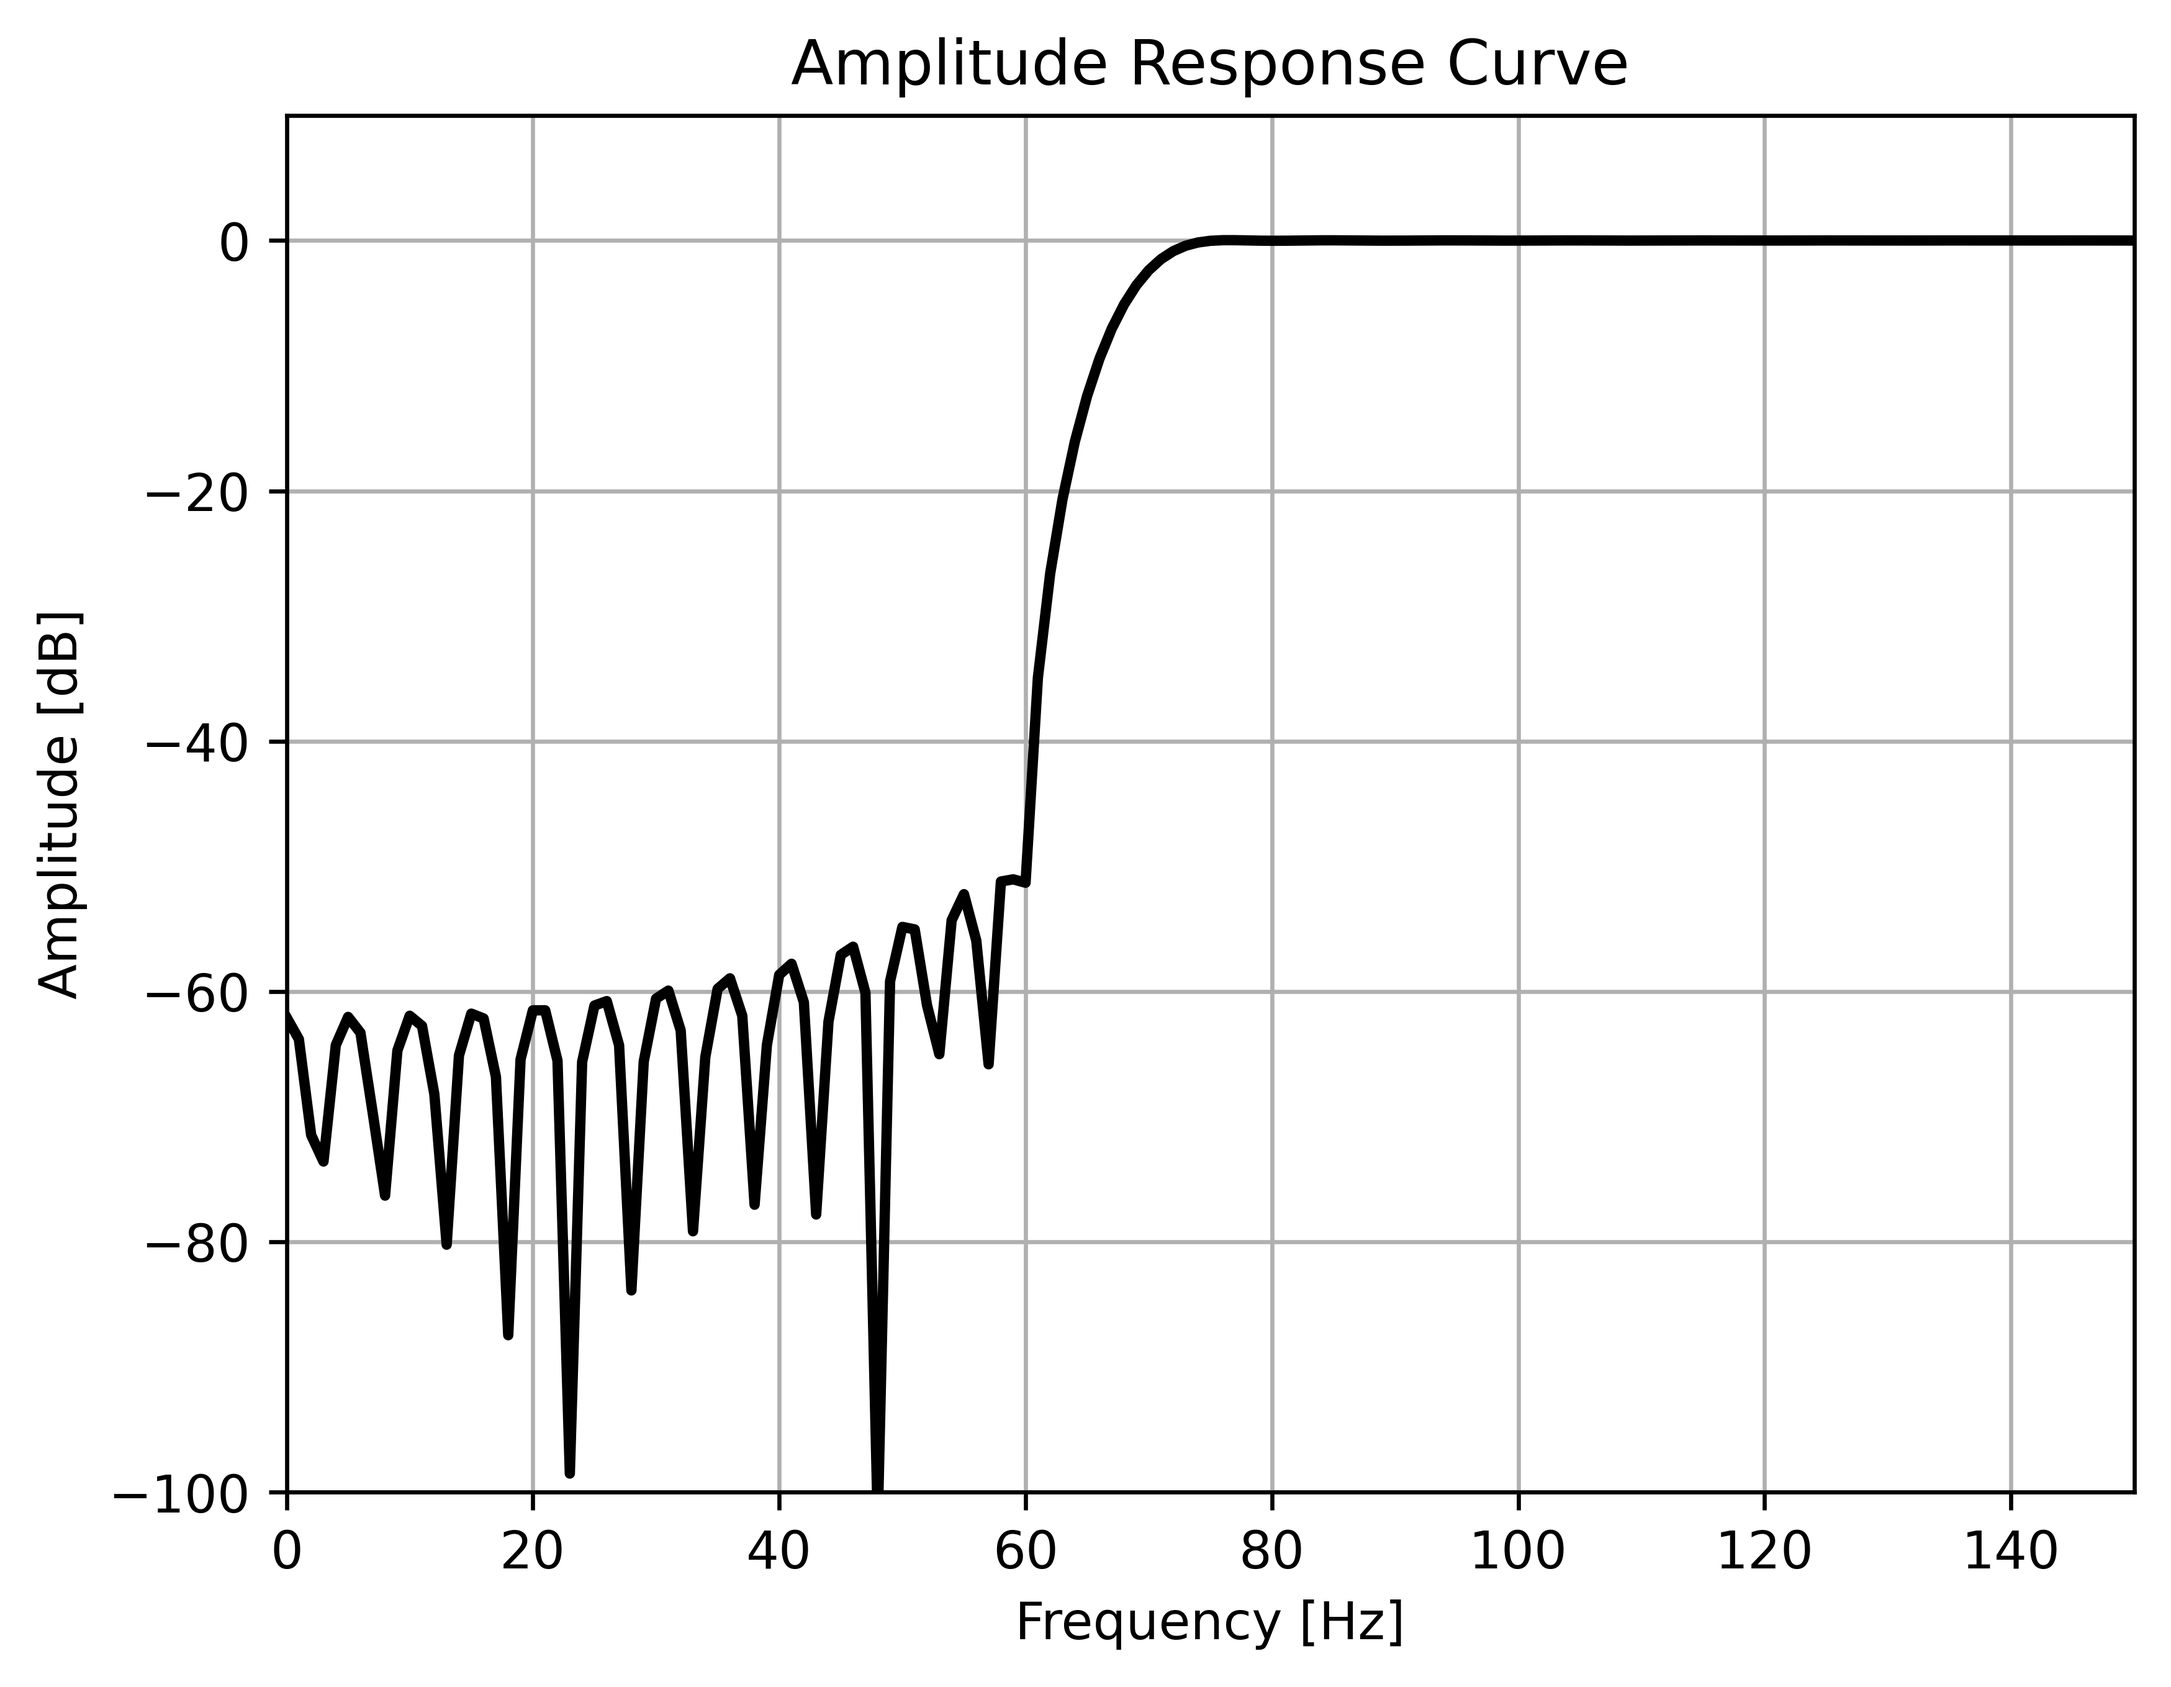
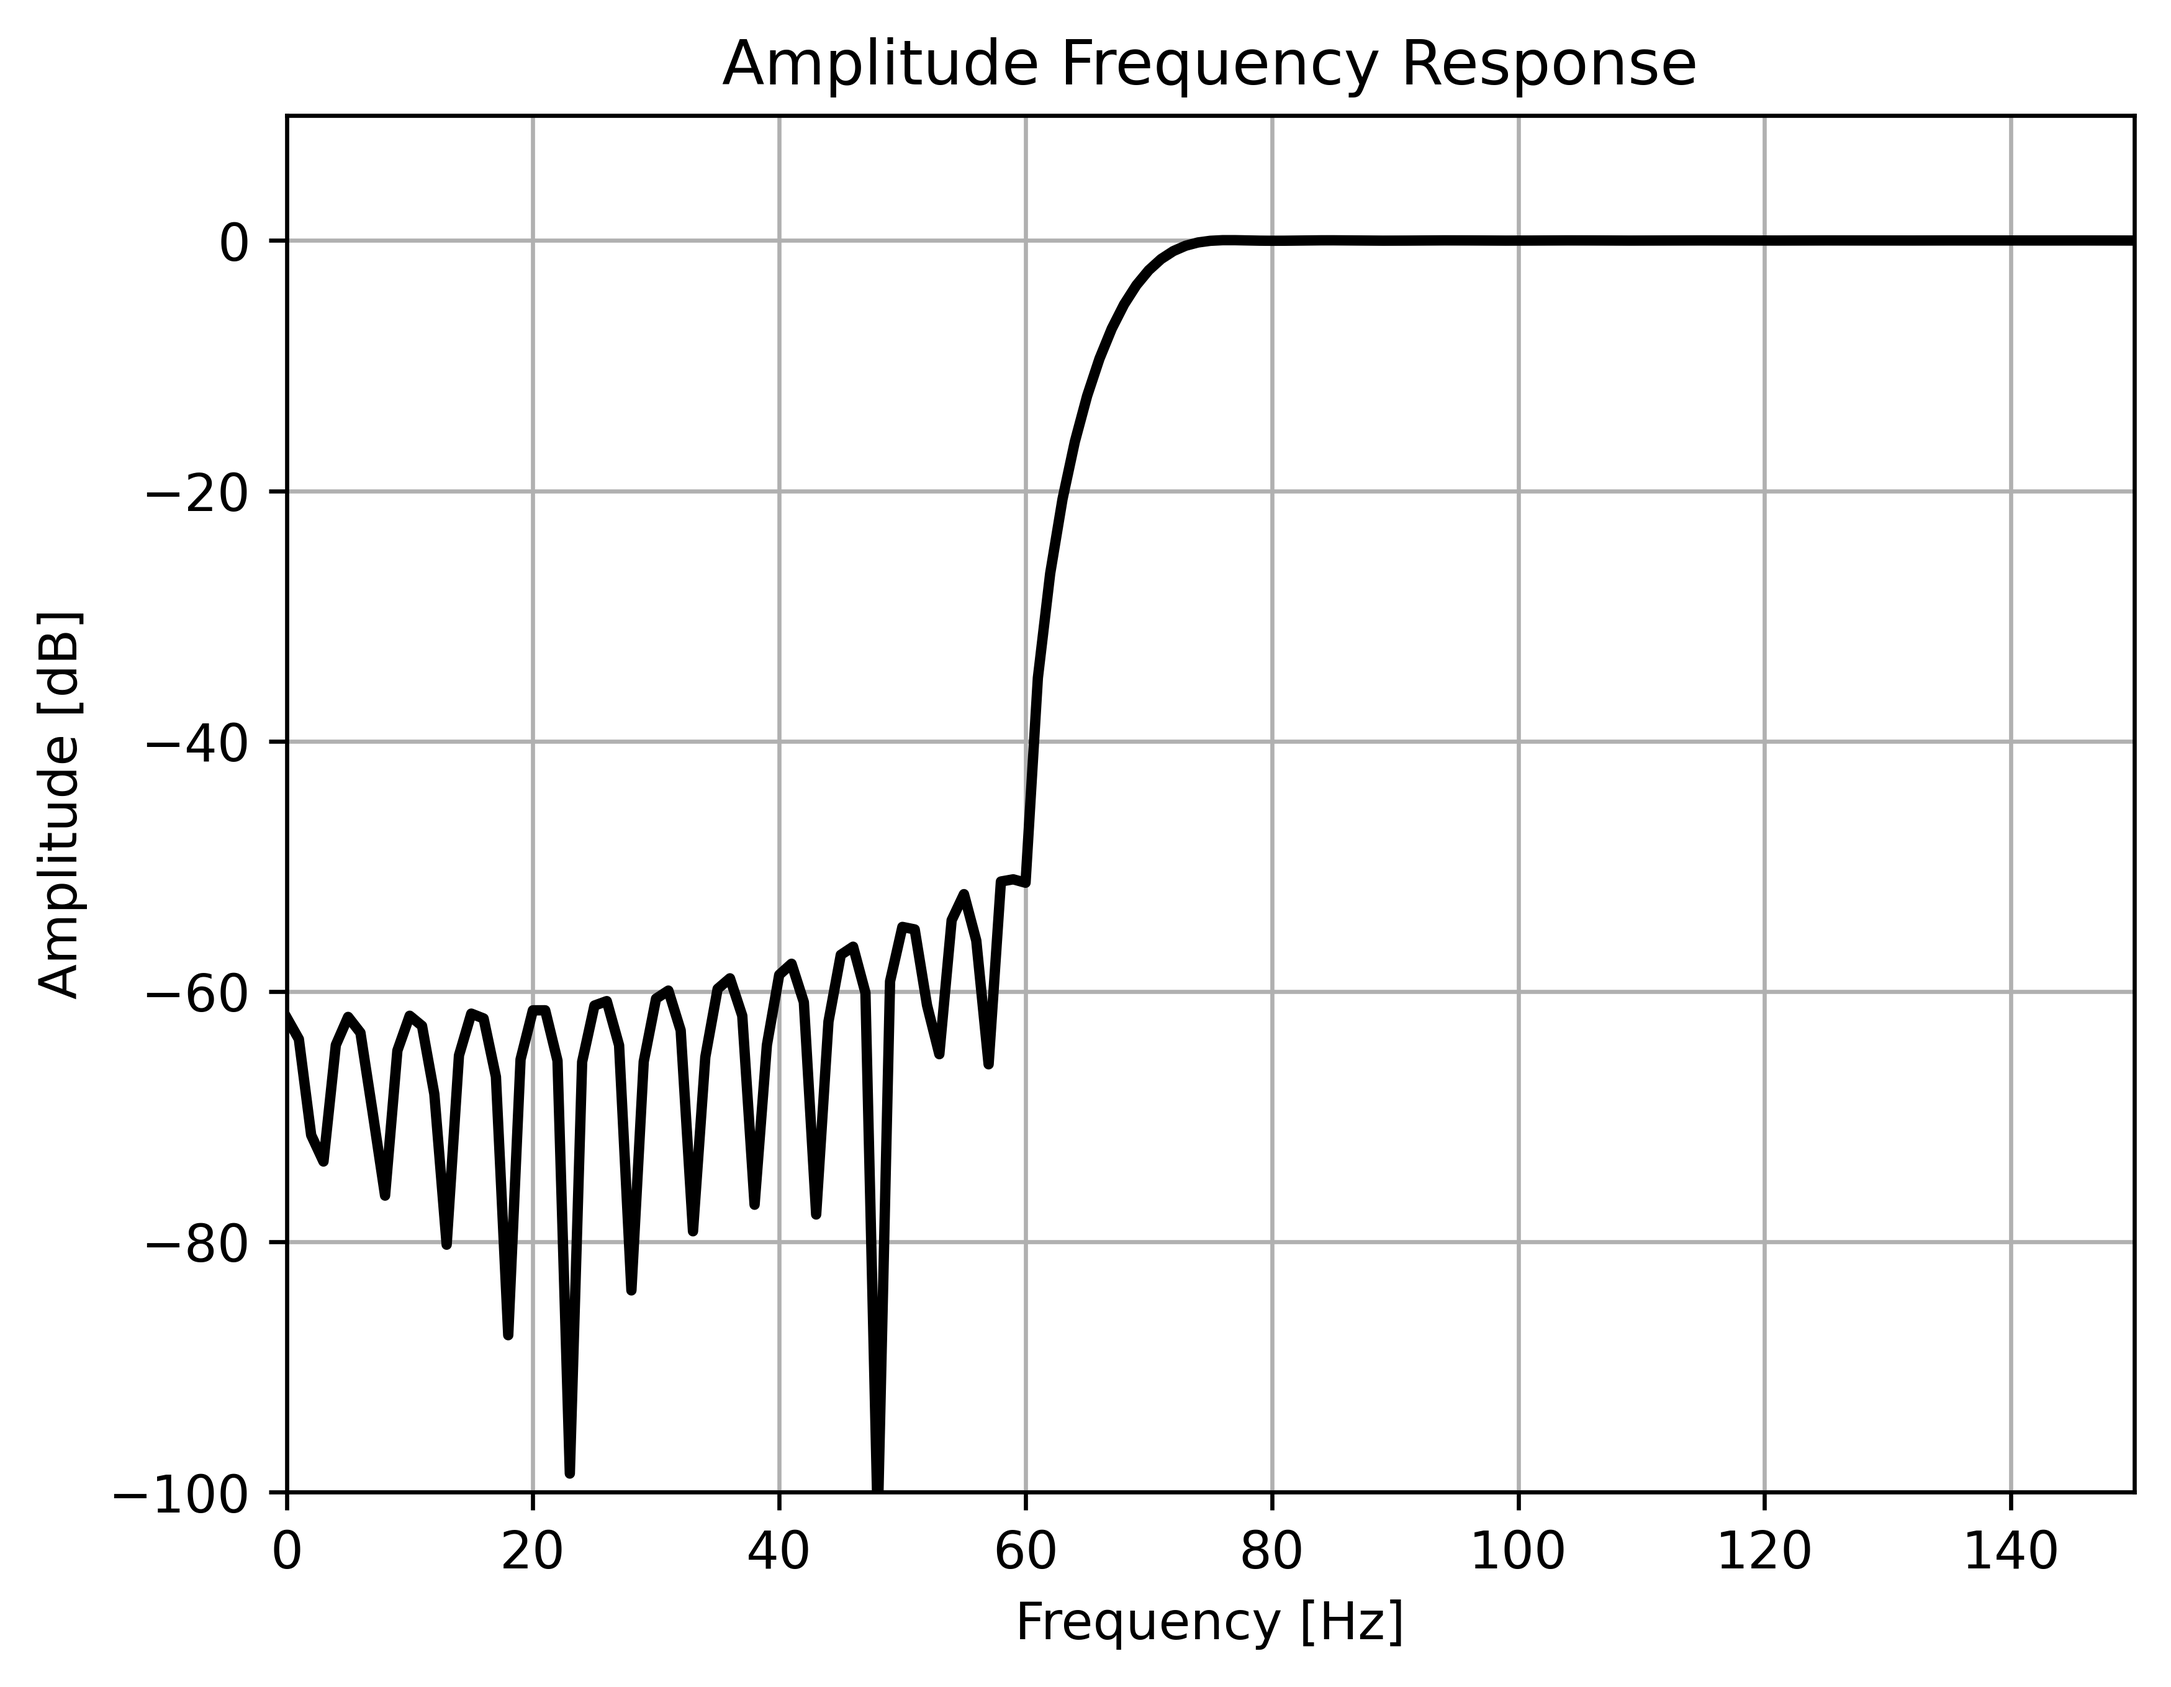
BSF Preprocess(for 50Hz IF)

Changed region(s): [[0.3429, 0.0309, 0.7792, 0.0618]]

diff --git a/Chapter5_NoisyPreprocess/pr5_5_3.py b/Chapter5_NoisyPreprocess/pr5_5_3.py
@@ -1,0 +1,78 @@
+# pr5_5_3
+
+from Universal import *
+import math
+from scipy.signal import firwin, freqz
+
+if __name__ == '__main__':
+	As = 50  # stopband min attenuation
+	Fs = 8000  # sample rate
+	Fs2 = Fs / 2
+	fs1 = 49
+	fs2 = 51    # stopband frequency
+	fp1 = 45
+	fp2 = 55    # passband frequency
+	df = min(fs1 - fp1, fp2 - fs2)  # interim bandwidth
+	M0 = np.round((As - 7.95) / (14.36 * df / Fs)) + 2  # kaiser window length
+	M = M0 + np.mod(M0 + 1, 2)  # M -> odd
+	wp1 = fp1 / Fs2 * math.pi
+	wp2 = fp2 / Fs2 * math.pi
+	ws1 = fs1 / Fs2 * math.pi
+	ws2 = fs2 / Fs2 * math.pi   # rad/s
+	wc1 = (wp1 + ws1) / 2  # stop frequency
+	wc2 = (wp2 + ws2) / 2
+	beta = 0.5842 * (As - 21) ** 0.4 + 0.07886 * (As - 21)
+	print('beta = {:.6f}'.format(beta))
+	b = firwin(M, np.array([wc1 / math.pi, wc2 / math.pi]) , window=('kaiser', beta),pass_zero='bandstop')
+	w, h = freqz(b, 1, 4000)
+	db = 20 * np.log10(np.abs(h))
+	
+	
+	S = Speech()
+	s, fs = S.audioread('bluesky3.wav', 8000)
+	s = s - np.mean(s)  # DC
+	s = s / np.max(np.abs(s))  # normalized
+	N = len(s)
+	t = np.arange(N) / fs
+	ns = 0.5 * np.cos(2 * math.pi * 50 * t)  # 50Hz IF
+	x = s + ns
+	snr1 = S.SNR_singlech(s, x)
+	print('snr1 = {:.4f}'.format(snr1))
+	y = np.convolve(b, x)  # FIR output
+	z = y[int(np.fix(M/2)) : len(y) - int(np.fix(M/2))]
+	snr2 = S.SNR_singlech(s, z)
+	print('snr2 = {:.4f}'.format(snr2))
+	
+	# figure
+	plt.figure(1)
+	plt.plot(w / math.pi * Fs2, db, 'k', linewidth=2)
+	plt.grid()
+	plt.axis([0, 100, -60, 5])
+	plt.title('Amplitude Frequency Response')
+	plt.xlabel('Frequency [Hz]')
+	plt.ylabel('Amplitude [dB]')
+	plt.savefig('images/BSF_Kaiser.png', bbox_inches='tight', dpi=600)
+	plt.show()
+	
+	plt.figure(2, figsize=(9, 16))
+	plt.subplot(3, 1, 1)
+	plt.plot(t, s, 'k')
+	plt.title('Clean Speech Signal')
+	plt.xlabel('Time [s]')
+	plt.ylabel('Amplitude ')
+	plt.axis([0, np.max(t), -1.2, 1.2])
+	plt.subplot(3, 1, 2)
+	plt.plot(t, x, 'k')
+	plt.title('Speech with 50 Hz IF')
+	plt.xlabel('Time [s]')
+	plt.ylabel('Amplitude ')
+	plt.axis([0, np.max(t), -1.2, 1.2])
+	plt.subplot(3, 1, 3)
+	plt.plot(t, z, 'k')
+	plt.title('Speech Removed 50 Hz IF')
+	plt.xlabel('Time [s]')
+	plt.ylabel('Amplitude ')
+	plt.axis([0, np.max(t), -1.2, 1.2])
+	plt.savefig('images/BSF_Preprocess.png', bbox_inches='tight', dpi=600)
+	plt.show()
+	
